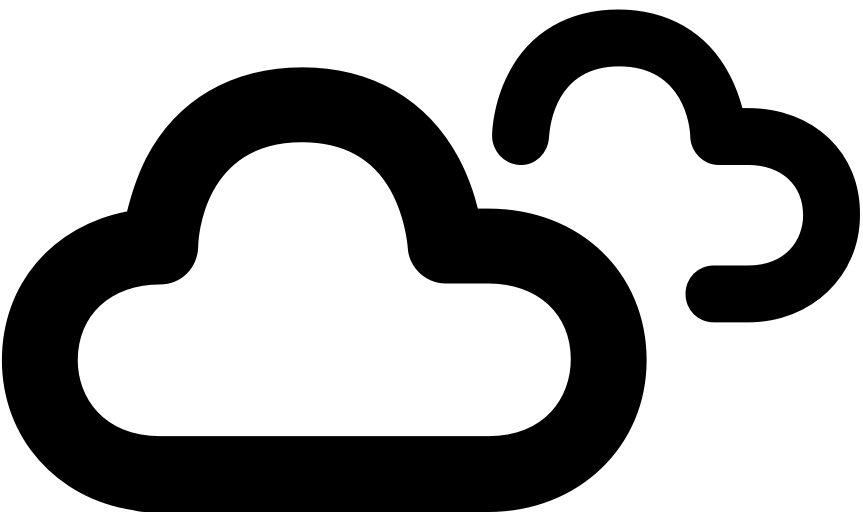
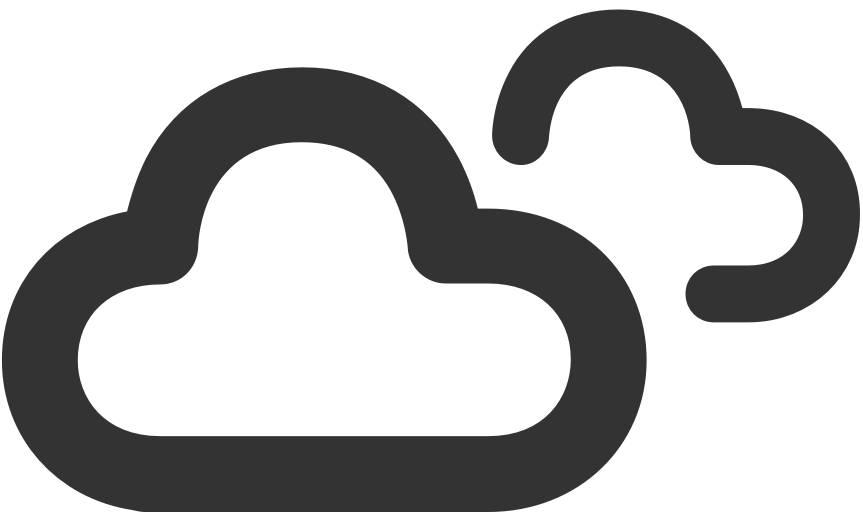
Changing image color and size

diff --git a/js/quote.js b/js/quote.js
@@ -4,7 +4,7 @@ if (navigator.geolocation) {
     $.getJSON("http://api.openweathermap.org/data/2.5/weather?lat=" + position.coords.latitude + "&lon=" + position.coords.longitude + "&units=imperial&APPID=42a747e29b71f50616529415fc4e1359", function(json) {
       console.log(json);
       //temperature in fahrenheit
-      $("#temp").html(Math.ceil(json.main.temp) + '˚' + ' <br/><br/><img width="56" src="PNG/' + json.weather[0].icon + '.png" style="color: #333;"' + ' />');
+      $("#temp").html(Math.ceil(json.main.temp) + '˚' + ' <br/><br/><img width="64" src="PNG/' + json.weather[0].icon + '.png"' + ' />');
       $("#city").html(json.name + ', ' + json.sys.country + ' is experiencing ' + json.weather[0].main);
     });
   });
